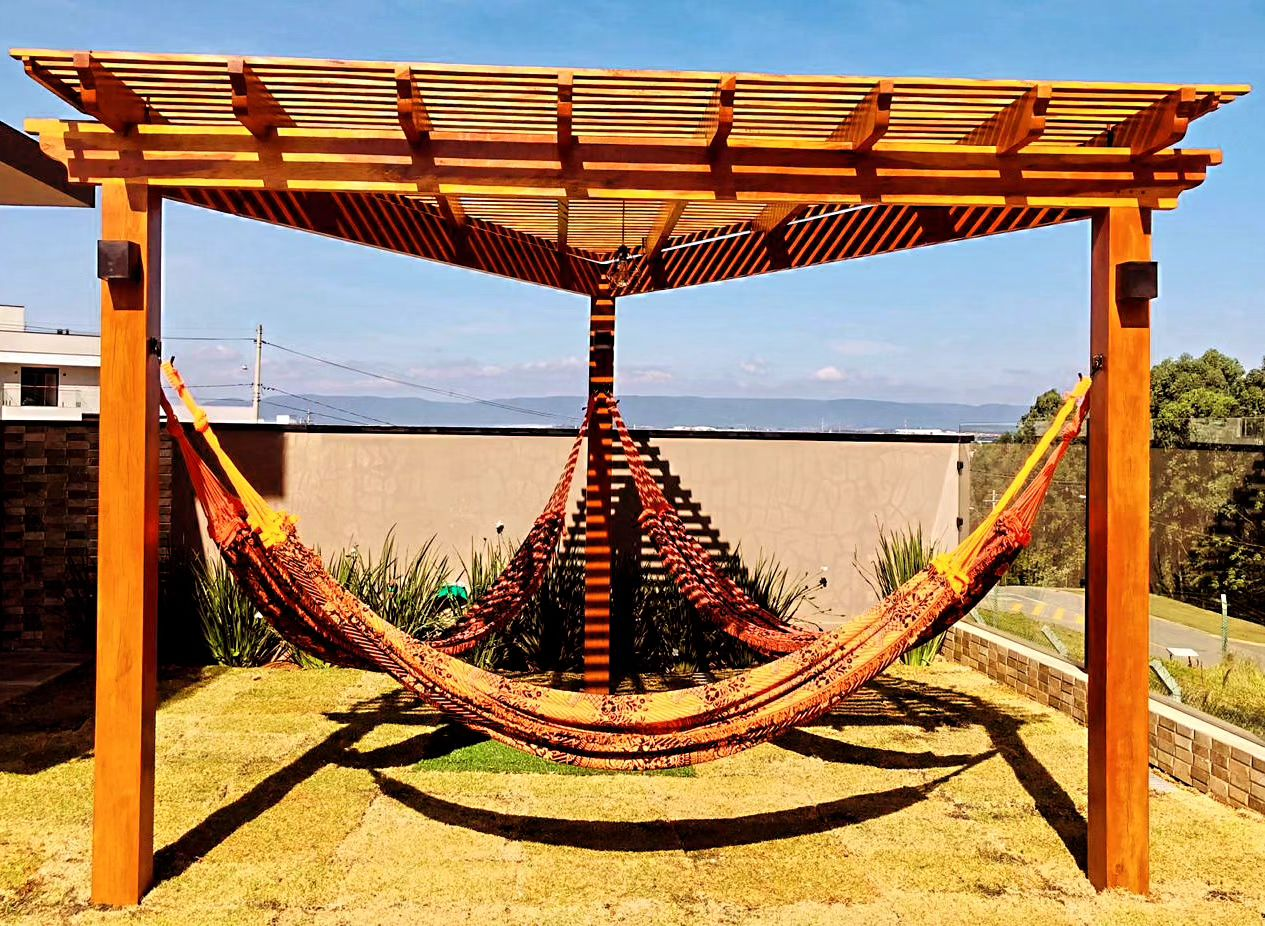
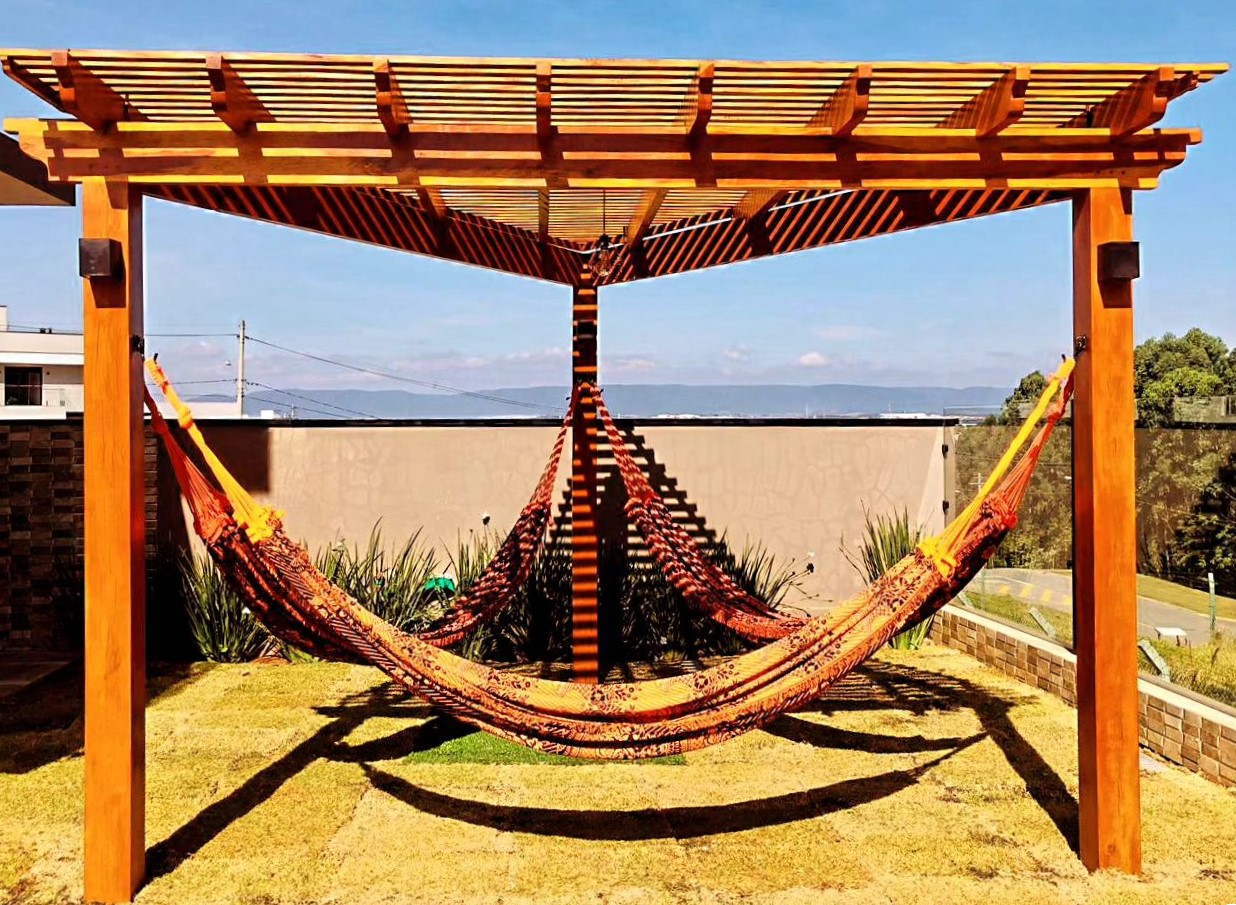
tentando fazer algo

diff --git a/src/App.tsx b/src/App.tsx
@@ -5,14 +5,18 @@ import HeaderBox from './components/Header';
 import { Ambientes, BottomHero } from './styles';
 import { CenterMode  } from './components/Sobre';
 import { Card } from './components/Card';
-import img from './assets/img/carousel/1.jpg'
+import img from './assets/img/carousel/1-copy.jpg'
+import telhadoImg from './assets/img/carousel/2-copy.jpeg'
 import deck from './assets/img/card-background.jpg';
 
 function App() {
   const slides = [
     { img: img, textsFadeInLeft: 'Pergolados', textsFadeInRightTop: 'Alto padrão', textsFadeInRightBottom: 'Sofisticação', textsFadeInBottom: 'Arte em madeira', textButton: 'Conheça' },
-    { img: img, textsFadeInLeft: 'Pergolados', textsFadeInRightTop: 'Alto padrão', textsFadeInRightBottom: 'Sofisticação', textsFadeInBottom: 'Arte em madeira', textButton: 'Conheça' }
-    
+    { img: telhadoImg, textsFadeInLeft: 'Telhados', textsFadeInRightTop: 'Qualidade', textsFadeInRightBottom: 'Perfeição', textsFadeInBottom: 'Arte em madeira', textButton: 'Conheça' }
+  ]
+  const slides2 = [
+    { img: img },
+    { img: telhadoImg }
   ]
   return (
     <>
@@ -22,8 +26,42 @@ function App() {
         <BottomHero>
           <h4>Móveis de forma artesanal</h4>
         </BottomHero>
-        <CenterMode  />
-        <div className="ambientesContainer">
+        <CenterMode slides={slides} />
+        <BottomHero>
+          <h3 className='text-white d-block'>Por que somos o serviço ideal para você?</h3>
+          <div className="row CardContainer">
+            <div className="col-5 card-style mb-4">
+              <div className="card">
+                <h5>Personalização:</h5>
+                <p>Os móveis planejados são feitos sob medida, o que significa que são criados para atender às necessidades específicas de cada cliente, personalizando cada projeto de acordo com suas preferências e necessidades.</p>
+              </div>
+            </div>
+            <div className="col-5 card-style mb-4">
+              <div className="card">
+                <h5>Valorização do imóvel:</h5>
+                <p>Investir em móveis planejados de alta qualidade pode valorizar o imóvel a longo prazo, o que pode ser um incentivo para quem está pensando em vender ou alugar sua propriedade no futuro.</p>
+              </div> 
+            </div>
+          </div>
+          <div className="row">
+            <div className="col-5 card-style mb-4">
+              <div className="card">
+                <h5>Qualidade:</h5>
+                <p>Os móveis planejados são feitos com materiais de alta qualidade e são projetados para durar por muitos anos, o que significa que, a longo prazo, eles podem ser mais econômicos do que os móveis prontos.</p>
+              </div>
+            </div>
+            <div className="col-5 card-style mb-4">
+              <div className="card">
+                <h5>Design exclusivo:</h5>
+                <p>Os móveis planejados oferecem um design exclusivo e personalizado que não pode ser encontrado em móveis prontos, o que pode ser um grande atrativo para aqueles que buscam um estilo de decoração único.</p>
+              </div>
+            </div>
+          </div>
+        </BottomHero>
+        <BottomHero>
+          <h4>Alguns Projetos</h4>
+        </BottomHero>
+        <div className="ambientesContainer mt-3">
           <div className="container">
             <div className="texto">
               <h4>Marcenaria em Jundiaí e região</h4>
@@ -53,6 +91,7 @@ function App() {
             </Ambientes>
           </div>
         </div>
+        
       </main>
     </>
   );

diff --git a/src/components/Sobre/index.tsx b/src/components/Sobre/index.tsx
@@ -1,18 +1,13 @@
 import React, { Component } from 'react'
 import { Sobre } from './style'
-import aboutPhoto from '../../assets/img/carousel/1.jpg';
+import { baseUrl } from "./config";
 import Slider from 'react-slick';
+import Photo from '../../assets/img/carousel/1.jpg'
+import { SimpleSliderProps } from './types';
 
-export class CenterMode  extends Component {
+export class CenterMode  extends Component<SimpleSliderProps> {
   render() {
     const settings = {
-      customPaging: function() {
-        return (
-          <a>
-            <img src={aboutPhoto} />
-          </a>
-        );
-      },
       dots: true,
       dotsClass: "slick-dots slick-thumb",
       fade: true,
@@ -27,21 +22,23 @@ export class CenterMode  extends Component {
     <Sobre className='container mb-5 pt-4'>
       <div className='row'>
         <div className='texto col-12 col-md-6 mb-sm-4'>
-          <h6>Móveis de Forma Artesanal</h6>
-          <p>Móveis de Forma Artesanal em SP, com criatividade, emoção e personalidade, o resultado só pode ser deslumbrante.</p>
-          <p>É com essa inspiração que são desenvolvidos os projetos da Marcenart, aliando a exclusividade do processo artesanal com o que há de mais moderno em tecnologia. Cada design deve retratar o estilo de vida, a otimização do espaço, a funcionalidade e a beleza, de uma forma exclusiva e encantadora.</p>
-          <p>Por isso, a YJ Madeiras trabalha desde 1985 com móveis planejados em SP executados de forma artesanal, fazendo arte na sua mais pura essência. Dormitórios Sob Medida, Cozinhas Sob Medida, Banheiros Sob Medida, Churrasqueiras Sob Medida, Home Office, Salas Sob Medida.</p>
+          <h4>YJ Madeira - Arte em Madeira</h4>
+          <h6>Quer móveis de madeira com qualidade?</h6>
+          <p>A YJ Madeira é uma empresa de design e fabricação de móveis de madeira artesanal. Fundada em 2022, a empresa tem como objetivo criar móveis únicos e personalizados que combinem beleza, funcionalidade e durabilidade.</p>
+          <p>A YJ Madeira oferece uma variedade de móveis, incluindo mesas, cadeiras, sofás, poltronas, camas e armários. Todos os móveis são feitos à mão com madeiras de alta qualidade, como mogno, jacarandá e imbuia.</p>
+          <p>Os móveis da YJ Madeira são projetados por um time de designers experientes que estão sempre buscando novas formas de combinar a beleza da madeira com a funcionalidade do design. A empresa também oferece serviços de customização, permitindo que os clientes criem móveis que atendam às suas necessidades específicas.</p>
           <button>Leia mais</button>
         </div>
         <div id='carousel' className="col-12 col-md-6">
           <div className="h-100 opa">
             <Slider {...settings}>
-              <div>
-                <img className='imgCarousel' src={aboutPhoto} alt="" />
-              </div>
-              <div>
-                <img className='imgCarousel' src={aboutPhoto} alt="" />
-              </div>
+              {this.props.slides.map((slide, index) => (
+                <div key={index}>
+                  <div>
+                    <img className='imgCarousel' src={slide.img} alt="" />
+                  </div>
+                </div>
+              ))}
             </Slider>
           </div>
         </div>

diff --git a/src/components/Carousel/styles.ts b/src/components/Carousel/styles.ts
@@ -11,6 +11,19 @@ export const CarouselBox = styled.div`
         width: 100%;
         height: 70dvh;
         object-fit: cover;
+        object-position: center center;
+    }
+    svg {
+        color: ${colors.white};
+        background-color: rgba(0, 0, 0, 0.7);
+        padding: 8px;
+        opacity: 1;
+        transition: opacity 0.3s ease-in-out;
+    }
+    .slick-prev:hover, .slick-prev:focus, .slick-next:hover, .slick-next:focus {
+        color: ${colors.white};
+        opacity: 70%;
+        background-color: rgba(0, 0, 0, 0.7);
     }
     .slick-prev {
         left: 0;
@@ -29,7 +42,11 @@ export const CarouselBox = styled.div`
     .slick-prev:before, .slick-next:before {
         font-size: 30px;
         color: rgba(255, 255, 255, 0.9);
-    }
+        display: inline-block;
+        padding-right: 3px;
+        vertical-align: middle;
+        font-weight: 900;
+        }
     .slick-dots {
         bottom: 0;
         margin-bottom: 10px;
@@ -75,6 +92,9 @@ export const CarouselBox = styled.div`
         padding: 5px 20px;
         font-size: 2.5rem;
         color: ${colors.white};
+        @media ${device.tablet} {
+            font-size: 3rem;
+        }
     }
     .fadeInRightText {
         display: flex;
@@ -82,6 +102,9 @@ export const CarouselBox = styled.div`
         color: ${colors.white};
         font-weight: 400;   
         font-size: 1rem;    
+        @media ${device.tablet} {
+            font-size: 1.5rem;
+        }
     }
     .column {
         padding: 5px 0px;
@@ -96,8 +119,15 @@ export const CarouselBox = styled.div`
         font-weight: 300;
         margin: 0 auto 20px;
         border-radius: 15px 15px 15px 0;
+        @media ${device.tablet} {
+            font-size: 4.5rem;
+        }
     }
     @media (max-width: 595px) {
+        .slick-arrow {
+            height: 20px;
+            width: 20px;
+        }
         .fadeInBottomText {
             font-size: 2rem;
         }
@@ -107,6 +137,13 @@ export const CarouselBox = styled.div`
         }
     }
     @media (max-width: 377px) {
+        .slick-arrow {
+            height: 15px;
+            width: 15px;
+        }
+        svg {
+            padding: 5px;
+        }
         .fadeInBottomText {
             font-size: 1.5rem;
         }

diff --git a/src/components/Carousel/index.tsx b/src/components/Carousel/index.tsx
@@ -4,6 +4,8 @@ import "slick-carousel/slick/slick.css";
 import "slick-carousel/slick/slick-theme.css";
 import Slider from "react-slick";
 import { SimpleSliderProps, SimpleSliderState } from './types';
+import { FontAwesomeIcon } from '@fortawesome/react-fontawesome';
+import { faChevronRight, faChevronLeft } from '@fortawesome/free-solid-svg-icons';
 
 export class SimpleSlider extends Component<SimpleSliderProps, SimpleSliderState> {
   state = {
@@ -20,7 +22,9 @@ export class SimpleSlider extends Component<SimpleSliderProps, SimpleSliderState
       slidesToShow: 1,
       slidesToScroll: 1, 
       beforeChange: (current: number, next: number) => this.setState({ activeSlide: next }),
-      afterChange: (current: number) => this.setState({ activeSlide: current })
+      afterChange: (current: number) => this.setState({ activeSlide: current }),
+      nextArrow: <FontAwesomeIcon icon={faChevronRight} />,
+      prevArrow: <FontAwesomeIcon icon={faChevronLeft} />
     };  
   return (
     <CarouselBox>
@@ -29,6 +33,8 @@ export class SimpleSlider extends Component<SimpleSliderProps, SimpleSliderState
             <div key={index}>
             {index === this.state.activeSlide && (
               <>
+              <button type="button" data-role="none" className="slick-arrow slick-next" > Opa</button>
+              <button type="button" data-role="none" className="slick-arrow slick-prev" > Opa</button>
               <div className="text-container">
                   <div className="d-flex justify-content-center mb-3">
                     <h4 className="fadeInLeft fadeInLeftText">{slide.textsFadeInLeft}</h4>

diff --git a/src/styles.ts b/src/styles.ts
@@ -119,9 +119,22 @@ export const BottomHero = styled.div`
     background-color: ${colors.orangePrincipal};
     text-align: center;
     display: flex;
+    flex-direction: column;
     justify-content: center;
     align-items: center;
-    height: 10dvh;
+    padding: 10px 3rem;
+    font-family: 'Open Sans', 'Roboto', sans-serif;
+
+    .row {
+        display: flex;
+        justify-content: center;
+        align-items: stretch;
+        div {
+            display: flex;
+            flex-grow: 1;
+        }
+    }
+
     color: ${colors.black};
     h4 {
         font-family: 'Oswald', 'Roboto', sans-serif;
@@ -129,6 +142,22 @@ export const BottomHero = styled.div`
         font-weight: 500;
         margin: 0;
         font-size: 1.8rem;
+    }
+    .card {
+        background-color: ${colors.white};
+        padding: 40px 20px;
+        border-radius: 20px;
+        text-align: start;
+        height: 100%;
+        h5 {
+            color: ${colors.black};
+            font-weight: bold;
+            font-size: 1.5rem;
+        }
+        p {
+            color: ${colors.black};
+            font-size: 1.2rem;
+        }
     }
 `
 export const Ambientes = styled.div`

diff --git a/src/components/Sobre/style.ts b/src/components/Sobre/style.ts
@@ -11,6 +11,12 @@ export const Sobre = styled.div`
         @media ${device.tablet} {
             margin-bottom: 0;
         }
+        h4 {
+            font-family: 'Open Sans', 'Roboto', sans-serif;
+            font-size: 30px;
+            font-weight: 400;
+            color: ${colors.brown};
+        }
         h6 {
             font-family: 'Open Sans', 'Roboto', sans-serif;
             font-size: 20px;

diff --git a/src/declarations.d.ts b/src/declarations.d.ts
@@ -1,5 +1,3 @@
-declare module "*.jpg" {
-    const value: any;
-    export = value;
-  }
+declare module "*.jpg";
+declare module "*.jpeg";
 declare module 'react-slick';

diff --git a/src/components/Sobre/types.ts b/src/components/Sobre/types.ts
@@ -1,0 +1,6 @@
+export interface Slide {
+    img: string;
+}
+export interface SimpleSliderProps {
+    slides: Slide[];
+}

diff --git a/src/components/Sobre/config.ts b/src/components/Sobre/config.ts
@@ -1,0 +1,1 @@
+export const baseUrl: string = '../../assets/img/carousel';
